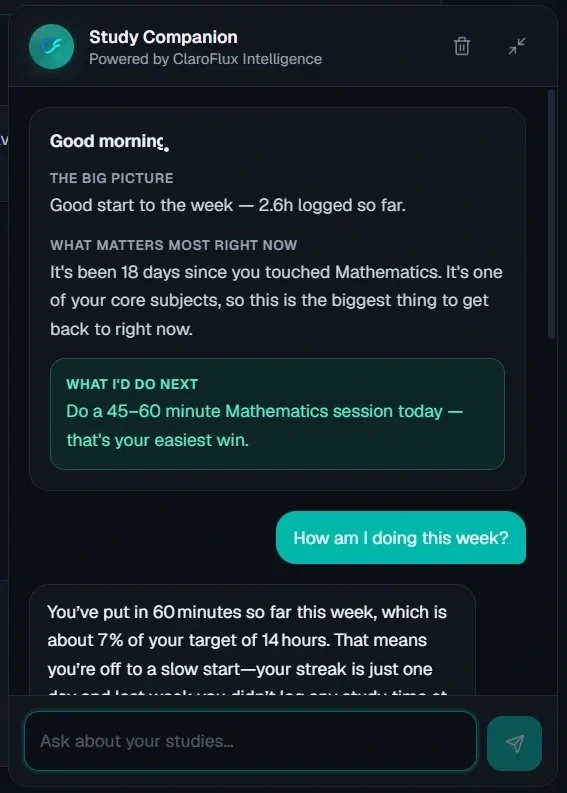
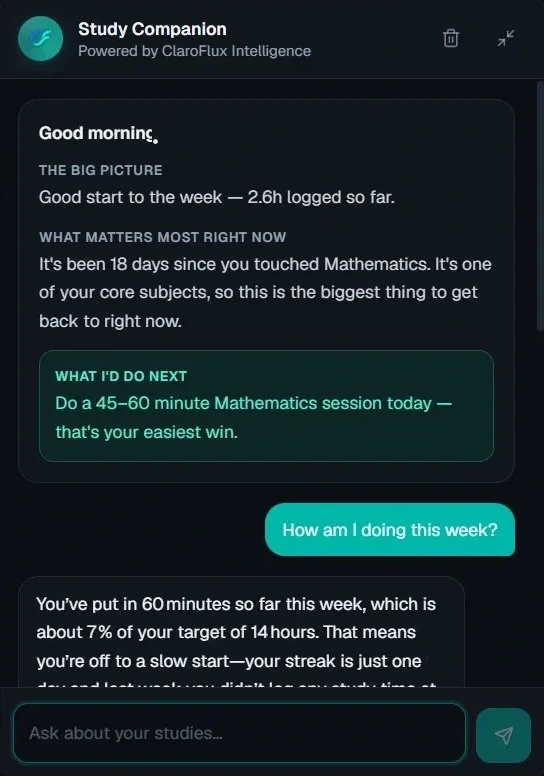
Fix navbar transition flash and companion screenshot framing
- Keep a constant transparent border/radius on the navbar bar so the
  glass-pill transition no longer flashes a white rectangle (border-color
  was interpolating toward currentColor while border-style snapped).
- Crop the Study Companion captures to the chat panel bounds, removing
  the captured page-background margin that doubled the card border.
- Add find-bounds.mjs dev helper for locating panel edges in captures.

diff --git a/components/sections/Navbar.tsx b/components/sections/Navbar.tsx
@@ -28,11 +28,13 @@ export function Navbar() {
 
   return (
     <header className="fixed inset-x-0 top-0 z-50">
+      {/* Border/radius stay constant (transparent at top) — toggling them
+          with transition-all flashes a white box while border-color falls
+          back to currentColor mid-transition. */}
       <div
         className={cn(
-          "mx-auto flex h-16 max-w-6xl items-center justify-between px-4 transition-all duration-500 sm:px-6",
-          scrolled &&
-            "glass card-shadow mx-3 mt-3 h-14 max-w-5xl rounded-2xl sm:mx-auto",
+          "mx-auto flex h-16 max-w-6xl items-center justify-between rounded-2xl border border-transparent bg-transparent px-4 shadow-none transition-all duration-500 sm:px-6",
+          scrolled && "glass card-shadow mx-3 mt-3 h-14 max-w-5xl sm:mx-auto",
         )}
       >
         <a

diff --git a/lib/shots.ts b/lib/shots.ts
@@ -29,7 +29,8 @@ function shot(
 export const SHOTS = {
   dashboard: shot("dashboard", 1917, 907, 1568, 737),
   dashboardDetail: shot("dashboard-detail", 1917, 907, 1568, 741),
-  companionBrief: shot("companion-brief", 561, 786, 567, 793),
+  // cropped to the chat panel itself (no page-background margin)
+  companionBrief: shot("companion-brief", 524, 777, 544, 776),
   companionChat: shot("companion-chat", 557, 790, 581, 802),
   companionAnswer: shot("companion-answer", 522, 267, 547, 245),
   tracker: shot("tracker", 1917, 907, 1568, 737),